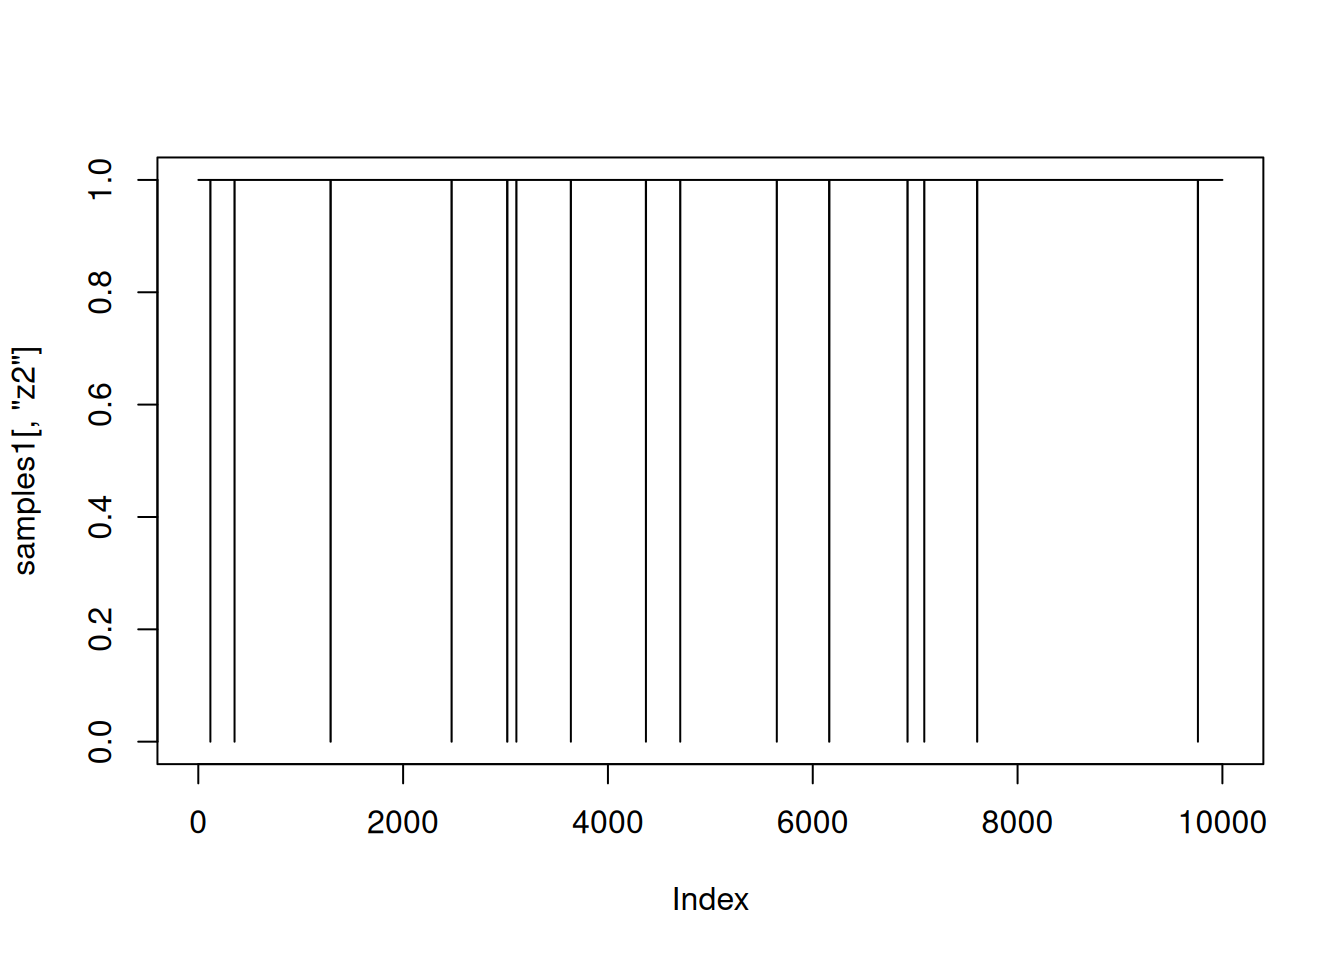
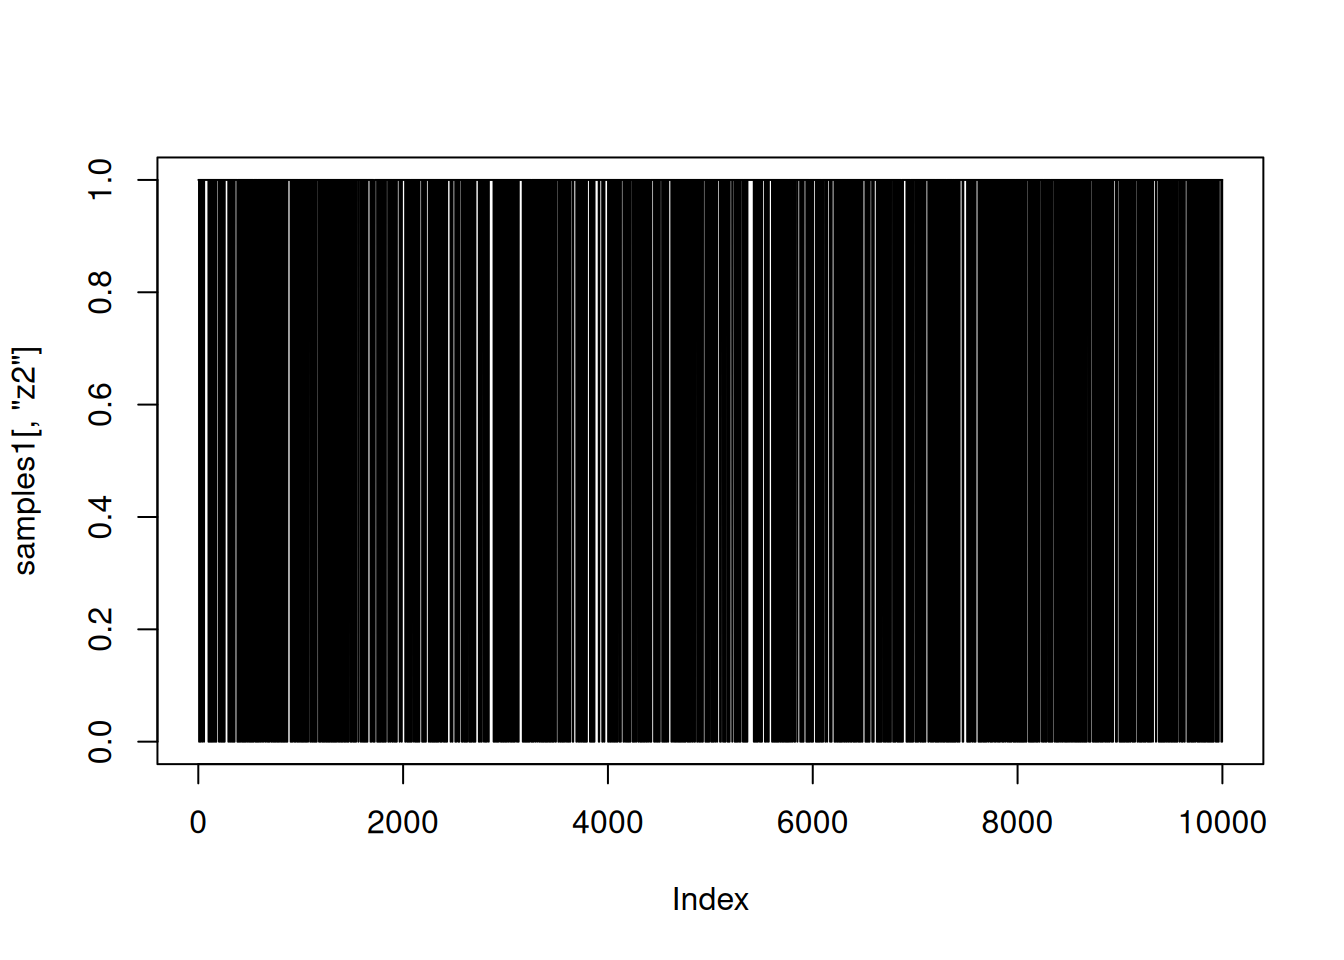
Built site for gh-pages

diff --git a/about-us.html b/about-us.html
@@ -275,8 +275,8 @@ ul.task-list li input[type="checkbox"] {
    
   <ul>
   <li><a href="#core-team" id="toc-core-team" class="nav-link active" data-scroll-target="#core-team">Core team</a></li>
-  <li><a href="#core-team-alums" id="toc-core-team-alums" class="nav-link" data-scroll-target="#core-team-alums">Core team alums</a></li>
   <li><a href="#collaborators" id="toc-collaborators" class="nav-link" data-scroll-target="#collaborators">Collaborators</a></li>
+  <li><a href="#core-team-alums" id="toc-core-team-alums" class="nav-link" data-scroll-target="#core-team-alums">Core team alums</a></li>
   <li><a href="#contributors" id="toc-contributors" class="nav-link" data-scroll-target="#contributors">Contributors</a></li>
   </ul>
 </nav>
@@ -320,15 +320,6 @@ ul.task-list li input[type="checkbox"] {
 </div>
 </div>
 </section>
-<section id="core-team-alums" class="level1">
-<h1>Core team alums</h1>
-<ul>
-<li><strong><a href="http://www.stat.ucdavis.edu/~duncan/">Duncan Temple Lang</a></strong> is in the Department of Statistics at the University of California, Davis who provided guidance on package structure and the NIMBLE compiler.</li>
-<li><strong>Nick Michaud</strong> is a Statistician at Vertex Pharmaceuticals who contributed to various NIMBLE algorithms and NIMBLE internals as a postdoc.</li>
-<li><strong><a href="http://cliffstats.weebly.com/">Clifford Anderson-Bergman</a></strong> is a Statistician at Lawrence Livermore National Lab who contributed to various NIMBLE algorithms and NIMBLE internals.</li>
-<li><strong>Jagadish Babu</strong> contributed to an early pre-release version of NIMBLE.</li>
-</ul>
-</section>
 <section id="collaborators" class="level1">
 <h1>Collaborators</h1>
 <ul>
@@ -336,7 +327,7 @@ ul.task-list li input[type="checkbox"] {
 <li><strong><a href="https://www.gla.ac.uk/schools/mathematicsstatistics/staff/weizhang/">Wei Zhang</a></strong> is a lecturer in the School of Mathematics and Statistics at the University of Glasgow who has contributed to NIMBLE methods and applications.</li>
 <li><strong><a href="https://www.hsph.harvard.edu/profile/sally-paganin/">Sally Paganin</a></strong> is a faculty member at Ohio State University who has contributed to NIMBLE methods and applications.</li>
 <li><strong>Claudia Wehrhahn Cortes</strong> was a visiting assistant professor at the University of California, Santa Cruz, Department of Applied Mathematics &amp; Statistics who implemented Bayesian nonparametric methods in NIMBLE.</li>
-<li><strong><a href="https://stat.uw.edu/about-us/people/abel-rodriguez">Abel Rodriguez</a></strong> is a faculty member at the University of Washington Department of Statistics who help lead our implementation of Bayesian nonparametric methods in NIMBLE.</li>
+<li><strong><a href="https://stat.uw.edu/about-us/people/abel-rodriguez">Abel Rodriguez</a></strong> is a faculty member at the University of Washington Department of Statistics who helped lead our implementation of Bayesian nonparametric methods in NIMBLE.</li>
 </ul>
 <div class="team-grid">
 <div class="team-member">
@@ -350,6 +341,15 @@ ul.task-list li input[type="checkbox"] {
 </div>
 <ul>
 <li><strong><a href="http://homes.cs.washington.edu/~bodik/">Ras Bodik</a></strong> is a faculty member at the University of Washington, Department of Computer Science and Engineering.</li>
+</ul>
+</section>
+<section id="core-team-alums" class="level1">
+<h1>Core team alums</h1>
+<ul>
+<li><strong><a href="http://www.stat.ucdavis.edu/~duncan/">Duncan Temple Lang</a></strong> is in the Department of Statistics at the University of California, Davis who provided guidance on package structure and the NIMBLE compiler.</li>
+<li><strong>Nick Michaud</strong> is a Statistician at Vertex Pharmaceuticals who contributed to various NIMBLE algorithms and NIMBLE internals as a postdoc.</li>
+<li><strong><a href="http://cliffstats.weebly.com/">Clifford Anderson-Bergman</a></strong> is a Statistician at Lawrence Livermore National Lab who contributed to various NIMBLE algorithms and NIMBLE internals.</li>
+<li><strong>Jagadish Babu</strong> contributed to an early pre-release version of NIMBLE.</li>
 </ul>
 </section>
 <section id="contributors" class="level1">

diff --git a/blog/writing-reversible-jump-mcmc-in-nimble.html b/blog/writing-reversible-jump-mcmc-in-nimble.html
@@ -770,11 +770,11 @@ conjugate sampler (3)
 <div class="cell">
 <div class="sourceCode cell-code" id="cb48"><pre class="sourceCode r code-with-copy"><code class="sourceCode r"><span id="cb48-1"><a href="#cb48-1" aria-hidden="true" tabindex="-1"></a><span class="fu">mean</span>(samples1[,<span class="st">'beta2'</span>]<span class="sc">==</span><span class="dv">0</span>)</span></code><button title="Copy to Clipboard" class="code-copy-button"><i class="bi"></i></button></pre></div>
 <div class="cell-output cell-output-stdout">
-<pre><code>[1] 0.0025</code></pre>
+<pre><code>[1] 0.2121</code></pre>
 </div>
 <div class="sourceCode cell-code" id="cb50"><pre class="sourceCode r code-with-copy"><code class="sourceCode r"><span id="cb50-1"><a href="#cb50-1" aria-hidden="true" tabindex="-1"></a><span class="fu">mean</span>(samples2[,<span class="st">'beta2'</span>]<span class="sc">==</span><span class="dv">0</span>)</span></code><button title="Copy to Clipboard" class="code-copy-button"><i class="bi"></i></button></pre></div>
 <div class="cell-output cell-output-stdout">
-<pre><code>[1] 0.0046</code></pre>
+<pre><code>[1] 0.219</code></pre>
 </div>
 <div class="sourceCode cell-code" id="cb52"><pre class="sourceCode r code-with-copy"><code class="sourceCode r"><span id="cb52-1"><a href="#cb52-1" aria-hidden="true" tabindex="-1"></a><span class="fu">qqplot</span>(samples1[ samples1[,<span class="st">'beta2'</span>] <span class="sc">!=</span> <span class="dv">0</span>,<span class="st">'beta2'</span>], samples2[samples2[,<span class="st">'beta2'</span>] <span class="sc">!=</span> <span class="dv">0</span>,<span class="st">'beta2'</span>])</span>
 <span id="cb52-2"><a href="#cb52-2" aria-hidden="true" tabindex="-1"></a><span class="fu">abline</span>(<span class="dv">0</span>,<span class="dv">1</span>)</span></code><button title="Copy to Clipboard" class="code-copy-button"><i class="bi"></i></button></pre></div>
